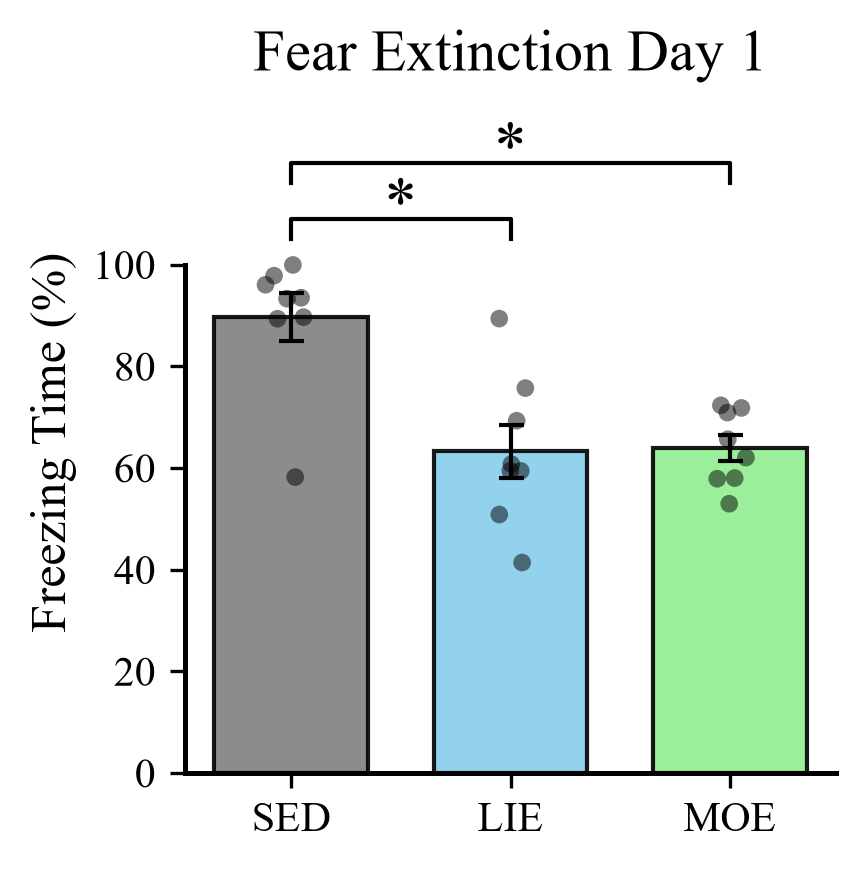
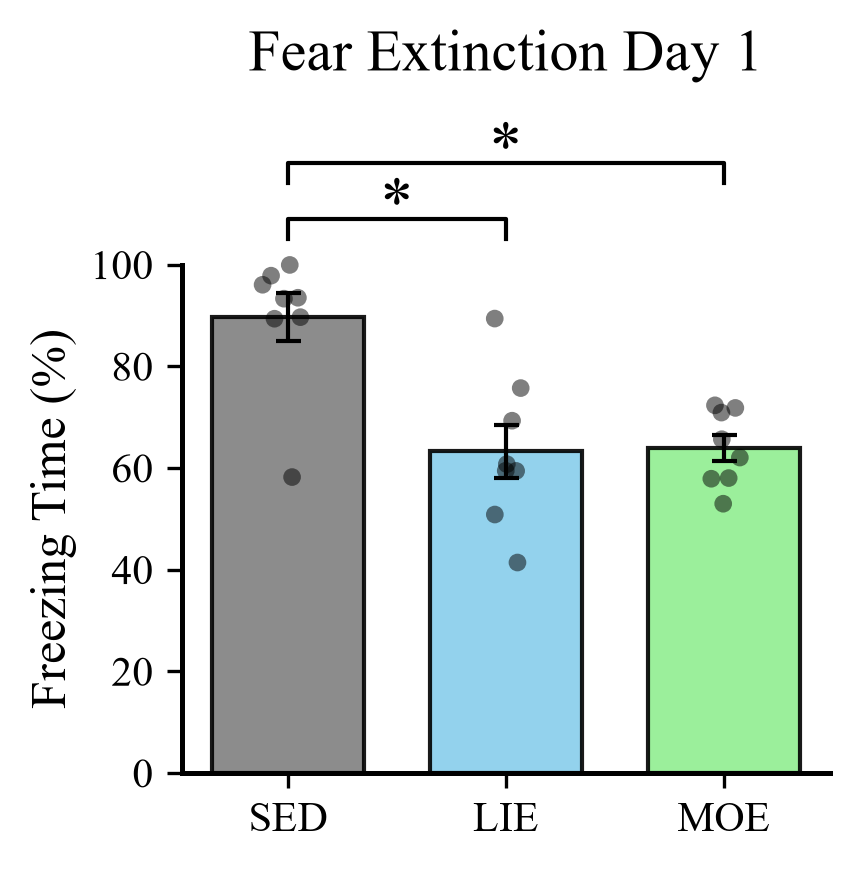
有意マーカーを棒グラフに入れたときにy軸タイトルが上にずれてしまうのを中心に調整。

diff --git a/Scripts/Create_Plots.py b/Scripts/Create_Plots.py
@@ -295,6 +295,18 @@ def plot_group_bar_jitter_sig(
     ax.set_ylim(*ylim)
     ax.set_yticks(np.arange(0, 101, 20)) # 目盛りは 0~100 まで表示
 
+    # y軸ラベルをデータ座標 (0:100) の中心に配置する
+    try:
+        ymin, ymax = ax.get_ylim()
+        center_data = 50
+        y_frac = (center_data - ymin) / (ymax - ymin) if ymax != ymin else 0.5
+        ylab = ax.yaxis.get_label()
+        ylab.set_verticalalignment("center")
+        # 左側に少しオフセットして配置（必要に応じて値を調整）
+        ax.yaxis.set_label_coords(-0.2, y_frac)
+    except Exception:  # noqa: BLE001, S110
+        pass
+
     ax.tick_params(axis="both", labelsize=11)
     for label in ax.get_xticklabels() + ax.get_yticklabels():
         label.set_fontproperties(FONT_PROP)
@@ -306,6 +318,7 @@ def plot_group_bar_jitter_sig(
     ax.spines["left"].set_linewidth(1.2)
     ax.spines["bottom"].set_linewidth(1.2)
 
+    
     plt.tight_layout()
 
     # 保存処理（高解像度 PNG / PDF / TIFF）
@@ -392,6 +405,17 @@ def plot_group_boxplot_sig(
     ax.set_title(title, fontsize=14, fontfamily="Times New Roman", pad=10)
     ax.set_ylim(*ylim)
     ax.set_yticks(np.arange(0, 101, 20)) # 目盛りは 0~100 まで表示
+
+    # y軸ラベルをデータ座標 (0:100) の中心に配置する
+    try:
+        ymin, ymax = ax.get_ylim()
+        center_data = 50
+        y_frac = (center_data - ymin) / (ymax - ymin) if ymax != ymin else 0.5
+        ylab = ax.yaxis.get_label()
+        ylab.set_verticalalignment("center")
+        ax.yaxis.set_label_coords(-0.2, y_frac)
+    except Exception:  # noqa: BLE001, S110
+        pass
 
     ax.tick_params(axis="both", labelsize=11)
     for label in ax.get_xticklabels() + ax.get_yticklabels():
